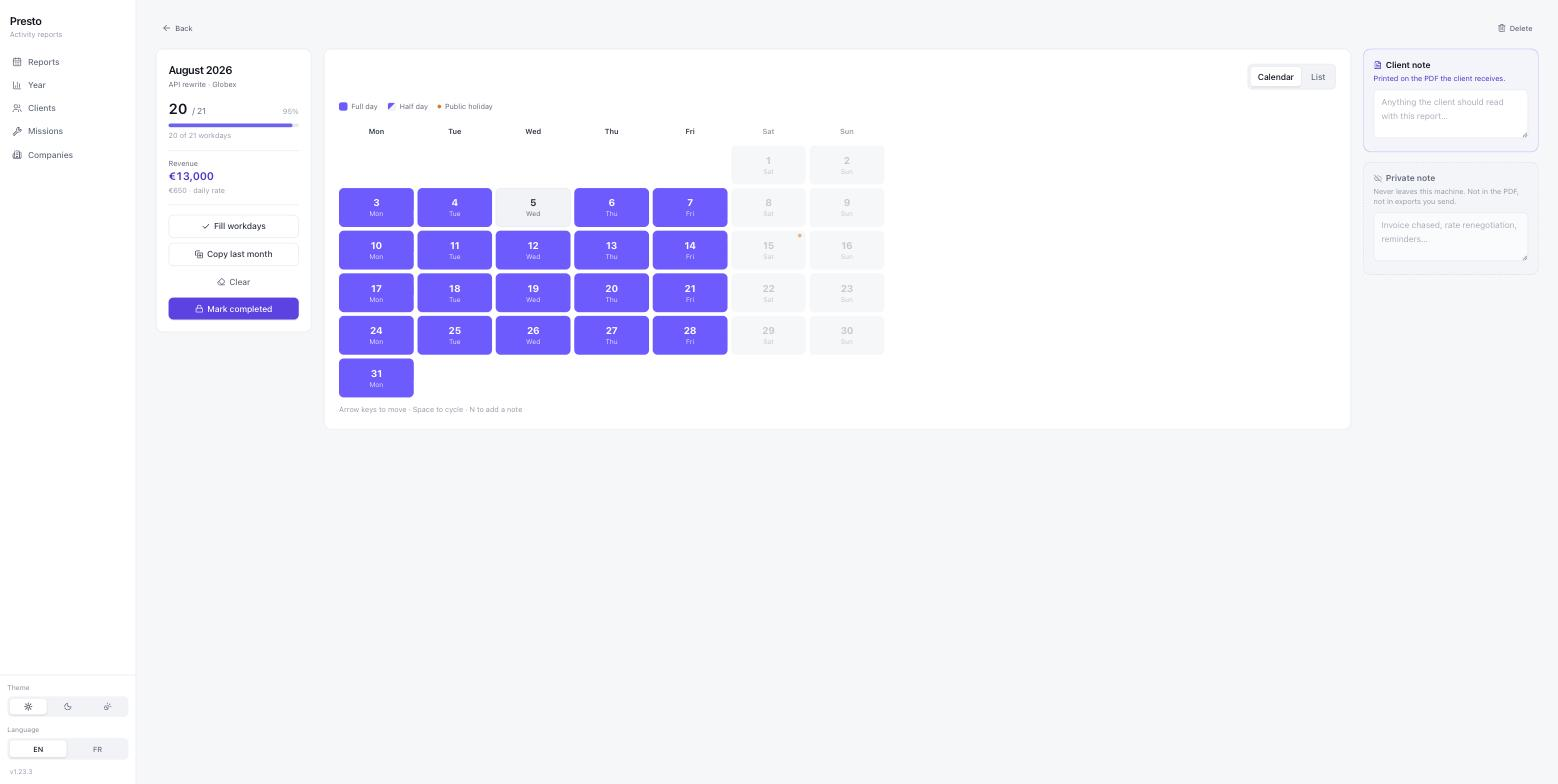
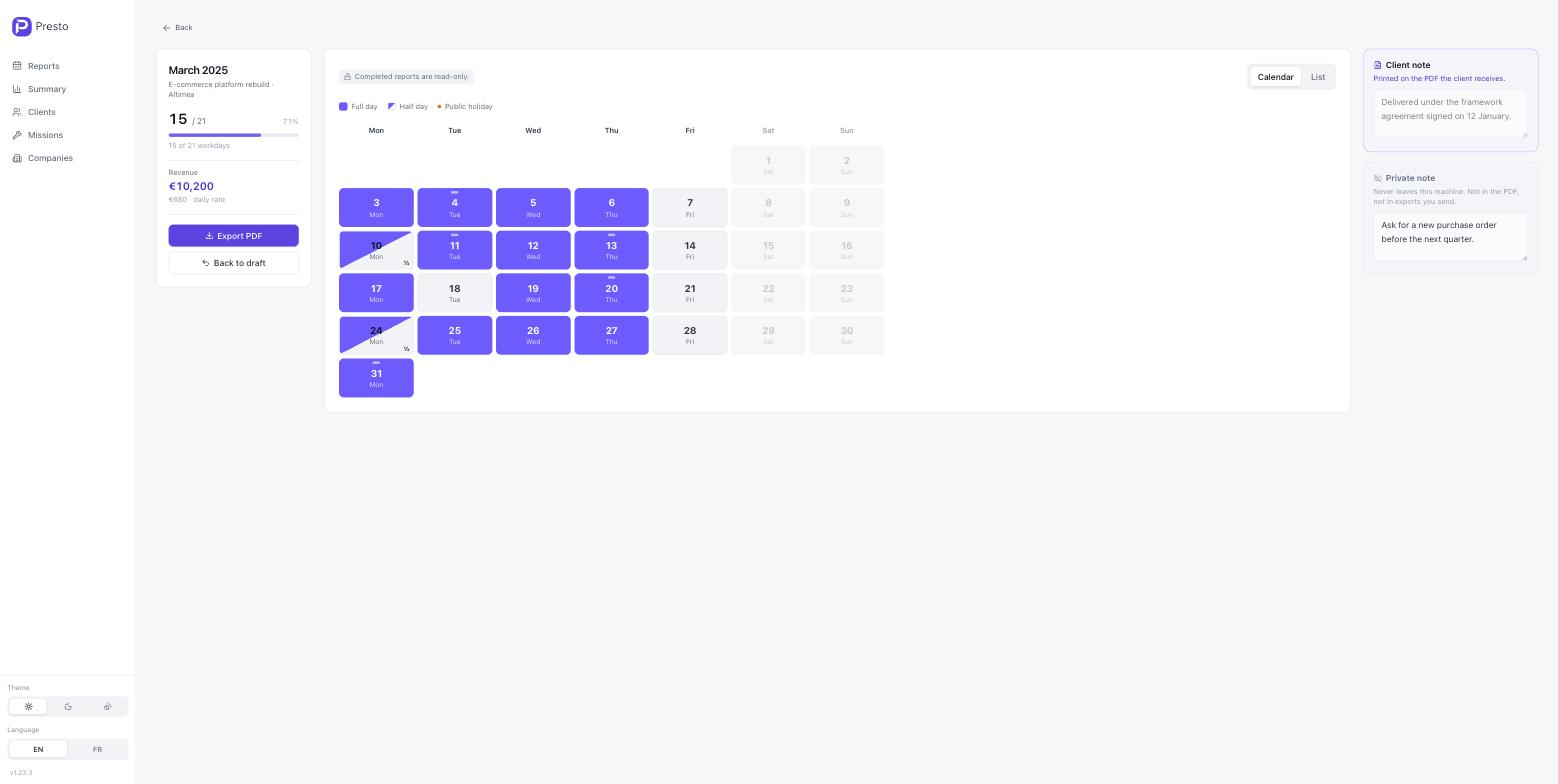
docs: rewrite the README around what the tool actually produces
Restructures it as a walkthrough — set up, fill in a month, send it,
review the year — rather than a feature list, and leads with the screen
someone will spend their time in.

Adds a render of an exported PDF. It is the product's actual output and
the thing a prospective user most wants to see before installing
anything; the README never showed it.

Screenshots are regenerated in English from the seed fixture, which is
now in English itself: it ships in a repository whose default language
is English, and half-French demo data read as an oversight. Only the
strings changed — the PRNG draws the same days, so the numbers are
identical.

States the absence of authentication up front and links SECURITY.md,
rather than leaving it as a line in a table.

diff --git a/scripts/seed.ts b/scripts/seed.ts
@@ -31,17 +31,18 @@ function rng(seed: number): () => number {
   };
 }
 
+// English: this fixture ships in a repository whose default language is English.
 const DAY_NOTES = [
   "Sprint planning",
-  "Revue de code",
-  "Atelier de cadrage",
-  "Comité de pilotage",
-  "Mise en production",
-  "Recette fonctionnelle",
-  "Reprise de données",
-  "Point d'avancement",
-  "Astreinte",
-  "Rédaction des specs",
+  "Code review",
+  "Scoping workshop",
+  "Steering committee",
+  "Production release",
+  "User acceptance testing",
+  "Data migration",
+  "Progress check-in",
+  "On-call",
+  "Writing specifications",
 ];
 
 interface Rhythm {
@@ -174,7 +175,7 @@ const LAST_YEAR = NOW.year - 1;
 const MISSIONS = [
   {
     key: "altimea",
-    name: "Refonte de la plateforme e-commerce",
+    name: "E-commerce platform rebuild",
     client: "altimea",
     company: "consulting",
     dailyRate: 680,
@@ -195,7 +196,7 @@ const MISSIONS = [
   },
   {
     key: "lauvray",
-    name: "Migration du SI RH",
+    name: "HR system migration",
     client: "lauvray",
     company: "consulting",
     dailyRate: 620,
@@ -209,7 +210,7 @@ const MISSIONS = [
   },
   {
     key: "helvetia",
-    name: "Plateforme data & gouvernance",
+    name: "Data platform and governance",
     client: "helvetia",
     company: "consulting",
     dailyRate: 950,
@@ -221,7 +222,7 @@ const MISSIONS = [
   },
   {
     key: "novaqua",
-    name: "Audit technique et accompagnement",
+    name: "Technical audit and advisory",
     client: "novaqua",
     company: "studio",
     dailyRate: 560,
@@ -237,16 +238,16 @@ const MISSIONS = [
 ];
 
 const CLIENT_NOTES = [
-  "Facturation au 1er du mois suivant, paiement à 30 jours.",
-  "Jours validés avec le chef de projet. Facture jointe séparément.",
-  "Prestation réalisée dans le cadre du contrat-cadre signé le 12/01.",
+  "Invoiced on the 1st of the following month, 30 days net.",
+  "Days agreed with the project lead. Invoice sent separately.",
+  "Delivered under the framework agreement signed on 12 January.",
   null,
 ];
 
 const PRIVATE_NOTES = [
-  "Relancé le 12, paiement reçu le 18.",
-  "Renégocier le TJM au prochain renouvellement.",
-  "Attention : bon de commande à redemander pour le trimestre suivant.",
+  "Chased on the 12th, paid on the 18th.",
+  "Renegotiate the rate at the next renewal.",
+  "Ask for a new purchase order before the next quarter.",
   null,
   null,
 ];

diff --git a/README.md b/README.md
@@ -1,36 +1,37 @@
 <div align="center">
-  <img src="public/favicon.svg" alt="" width="64" />
+  <img src="public/logo-vertical-light.svg#gh-dark-mode-only" alt="Presto" width="110" />
+  <img src="public/logo-vertical-dark.svg#gh-light-mode-only" alt="Presto" width="110" />
 
-  <h1>Presto</h1>
+  <h3>Monthly activity reports for freelancers and consultants</h3>
 
-  <p><strong>Monthly activity reports for freelancers and consultants.</strong><br/>
-  Track billable days on a calendar, hand your client a clean PDF.</p>
+  <p>Mark the days you worked on a calendar. Hand your client a clean PDF.<br/>
+  One person, one machine, one SQLite file.</p>
 
   <p>
-    <a href="https://github.com/tux86/presto/actions/workflows/ci.yml"><img src="https://img.shields.io/github/actions/workflow/status/tux86/presto/ci.yml?branch=main&style=flat-square&label=CI" alt="CI" /></a>
-    <a href="https://github.com/tux86/presto/releases"><img src="https://img.shields.io/github/v/release/tux86/presto?style=flat-square&color=blue" alt="Release" /></a>
-    <a href="LICENSE"><img src="https://img.shields.io/badge/License-MIT-green?style=flat-square" alt="MIT" /></a>
+    <a href="https://github.com/tux86/presto/actions/workflows/ci.yml"><img alt="CI" src="https://img.shields.io/github/actions/workflow/status/tux86/presto/ci.yml?branch=main&style=flat-square&label=CI"></a>
+    <a href="https://github.com/tux86/presto/releases"><img alt="Release" src="https://img.shields.io/github/v/release/tux86/presto?style=flat-square&color=4f46e5"></a>
+    <a href="https://github.com/tux86/presto/pkgs/container/presto"><img alt="Image" src="https://img.shields.io/badge/ghcr.io-presto-4f46e5?style=flat-square&logo=docker&logoColor=white"></a>
+    <a href="LICENSE"><img alt="MIT" src="https://img.shields.io/badge/License-MIT-059669?style=flat-square"></a>
   </p>
 </div>
 
 <p align="center">
-  <img src="docs/images/editor.jpg" alt="Filling in a month of billable days" width="100%" />
+  <img src="docs/images/editor.jpg" alt="A month of billable days, ready to export" width="100%">
 </p>
-
----
 
 ## What it is
 
-A *compte rendu d'activité* generator. You mark the days you worked on a calendar, and Presto turns
-the month into a PDF your client can accept, plus a yearly view of days and revenue.
+A *compte rendu d'activité* generator. Freelancers and consultants bill by the day; at the end of
+each month somebody has to produce the document that says which days those were. Presto is that
+document, plus the yearly view that tells you how the business is going.
 
-It is built for **one person on one machine**. There are no accounts, no login, no cloud, no
-telemetry. Your data is one SQLite file you can copy, move, and back up yourself.
+It is built for **one person on one machine**. No accounts, no login, no cloud, no telemetry. Your
+data is a single SQLite file you can copy, move and back up yourself.
 
 > [!IMPORTANT]
 > **Presto has no authentication.** Anyone who can reach the port can read and change everything.
-> Run it on `localhost`, or behind a reverse proxy, VPN, or Tailscale that handles access control.
-> Do not put it on a public port.
+> Run it on `localhost`, or behind a reverse proxy, VPN or Tailscale that handles access control.
+> Do not put it on a public port. See [SECURITY.md](SECURITY.md).
 
 ## Quick start
 
@@ -44,9 +45,10 @@ bun start
 Open <http://localhost:3001>. That is the whole setup — no database to provision, no `.env` to fill
 in. Your data lands in `./data/presto.db`.
 
-You need [Bun](https://bun.sh) 1.2 or newer. Nothing else.
+The only prerequisite is [Bun](https://bun.sh) 1.2 or newer.
 
-### Docker
+<details>
+<summary><b>Docker</b></summary>
 
 ```bash
 docker run -d --name presto \
@@ -62,58 +64,95 @@ curl -O https://raw.githubusercontent.com/tux86/presto/main/docker-compose.yml
 docker compose up -d
 ```
 
-One container, one volume. There is no database container, because the database is a file.
+One container, one volume. There is no database service, because the database is a file.
 
-## Using it
+</details>
 
-**Set up, once.** Rename the starter company under **Companies** to your legal entity — the name
-that appears on the PDF. Add a **client** (currency and holiday country live here), then a
-**mission** for the work you do for them, with its daily rate.
+<details>
+<summary><b>Try it with sample data</b></summary>
 
-**Every month.** Create a report for a mission and month. Fill it in:
+```bash
+bun run seed --reset
+```
 
-- Click a day to cycle it through **empty → half day → full day**
-- **Fill workdays** marks every weekday, skipping weekends and that client's public holidays
-- **Copy last month** reuses *which weekdays* you worked, re-applied to this month's calendar
-- Arrow keys move, <kbd>Space</kbd> cycles, <kbd>N</kbd> jumps to the day's note
+Two legal entities, four clients across two currencies and about two years of months. Deterministic,
+so you get the same data every time. Never runs on its own — Presto has no demo mode.
 
-**When it's done.** Mark the report **completed** — it becomes read-only — and export the PDF.
-Reverting to draft is possible but asks first, because your client may already have a copy.
+</details>
 
-Two notes per report, and the difference matters:
+## How it works
 
-| | Where it goes |
+**Set up once.** Rename the starter company under **Companies** to your legal entity — the name that
+appears on the PDF. Add a **client**, which carries its billing currency and its public-holiday
+country. Then a **mission** for the work you do for them, with its daily rate.
+
+**Fill in a month.** Create a report for a mission and a month, then:
+
+| | |
 |---|---|
-| **Client note** | Printed on the PDF the client receives |
-| **Private note** | Stays in your database. Never in the PDF, never in a client-facing export |
+| Click a day | cycles it through **empty → half day → full day** |
+| **Fill workdays** | marks every weekday, skipping weekends and that client's public holidays |
+| **Copy last month** | reuses *which weekdays* you worked, re-applied to this month's calendar |
+| <kbd>←</kbd> <kbd>→</kbd> <kbd>↑</kbd> <kbd>↓</kbd> | move · <kbd>Space</kbd> cycles · <kbd>N</kbd> jumps to the day's note |
+
+Public holidays are marked automatically for the client's country, and Presto asks before letting you
+bill one. Half days are drawn as a diagonal split, so the shape of a month is readable without
+reading any numbers.
 
 <p align="center">
-  <img src="docs/images/reports.jpg" alt="A year of reports grouped by client" width="100%" />
+  <img src="docs/images/reports.jpg" alt="A year of reports, grouped by client" width="100%">
 </p>
 
-**At year end.** The **Year** page shows days billed, revenue, average daily rate, and utilisation
-against the working days in the year, with a breakdown per client and per company. Export the whole
-year as CSV for your accountant, or the whole database as JSON.
+**Send it.** Mark the report **completed** — it becomes read-only — and export the PDF. Reverting to
+draft is possible, but Presto asks first, because your client may already have a copy.
+
+Every report has two notes, and the difference matters:
+
+|  | Where it goes |
+|---|---|
+| **Client note** | printed on the PDF the client receives |
+| **Private note** | stays in your database — never in the PDF, never in a client-facing export |
+
+## The PDF
+
+Generated server-side, one page per month, in English or French. It carries your legal entity and
+its business ID, the client's, the mission, every day of the month with its notes, public holidays
+by name, and the total.
 
 <p align="center">
-  <img src="docs/images/year.jpg" alt="Yearly summary with days, revenue and utilisation" width="100%" />
+  <img src="docs/images/pdf.png" alt="An exported activity report" width="620">
 </p>
 
-If you bill in more than one currency, amounts are shown **per currency** and never converted.
-Presto does not know today's exchange rate and will not pretend to.
+## The year
+
+Days billed, revenue, average daily rate, and utilisation against the working days in the year —
+broken down per client and per legal entity, filterable by either.
+
+A year still in progress is compared against **the same months** of the previous year, not against a
+full twelve: eight months of work is not a 40% collapse.
+
+If you bill in more than one currency, amounts are shown **per currency and never converted**. Presto
+does not know today's exchange rate and will not pretend to.
+
+<p align="center">
+  <img src="docs/images/summary.jpg" alt="Yearly summary with days, revenue and utilisation" width="100%">
+</p>
+
+Export the year as **CSV** for your accountant, or the whole database as **JSON** if you want a
+format you can read without SQLite.
 
 ## Configuration
 
-Everything is optional.
+Everything is optional. Presto runs with no configuration at all.
 
 | Variable | Default | What it does |
 |---|---|---|
 | `PORT` | `3001` (`8080` in Docker) | HTTP port |
-| `DATA_DIR` | `./data` (`/data` in Docker) | Where `presto.db` lives |
-| `APP_NAME` | `Presto` | Name shown in the sidebar |
+| `DATA_DIR` | `./data` (`/data` in Docker) | where `presto.db` lives |
+| `APP_NAME` | `Presto` | name shown in the sidebar and the browser tab |
 
-Theme (light / dark / auto) and language (English / French) are per-browser settings in the sidebar,
-not environment variables.
+Theme (light / dark / follow the system) and language (English / French) are per-browser settings in
+the sidebar, not environment variables.
 
 ## Backups
 
@@ -121,39 +160,28 @@ not environment variables.
 cp data/presto.db ~/backups/presto-$(date +%F).db
 ```
 
-That is a complete backup. To move to another machine, copy the file. The **Year** page also exports
-everything as JSON if you want a format you can read without SQLite.
+That is a complete backup. To move to another machine, copy the file.
 
 ## Coming from v1
 
-Presto v1 stored data in PostgreSQL and had optional multi-user accounts. v2 drops both. To bring
-your data across:
+Presto v1 stored data in PostgreSQL and had optional multi-user accounts. v2 drops both.
 
 1. Start Presto v1 and use **Profile → Export all data** to download the JSON
 2. `bun run import:v1 presto-v1-export.json`
 
 Add `--dry-run` first to see what it would write. The import refuses to run against a database that
-already has data.
-
-v1 remains available at the [`v1-final`](https://github.com/tux86/presto/tree/v1-final) tag.
+already has data. v1 remains available at the [`v1-final`](https://github.com/tux86/presto/tree/v1-final) tag.
 
 ## Development
 
 ```bash
 bun install
 bun run dev            # API on :3001, Vite with HMR on :5173
-bun test               # ~150 tests, no database or server needed
+bun test               # 156 tests, no database or server needed
 bun run typecheck
 bun run lint:fix
-bun run seed --reset   # fill the database with a plausible two-year history
+bun run seed --reset   # sample data to work against
 ```
-
-`bun run seed` is for trying Presto out and for working on it — two entities, four
-clients in two currencies, and a couple of years of months. It is deterministic, so the
-same command always produces the same data. It is never run automatically and is not in
-the Docker image; Presto has no demo mode.
-
-### How it fits together
 
 ```
 src/
@@ -165,15 +193,14 @@ src/
   i18n/    English and French, shared by the UI and the PDF
 ```
 
-One rule: **`core/` imports nothing from `db/`, `server/`, `pdf/`, or `ui/`.** That is what lets the
-logic that can actually get your invoice wrong be tested without a database, and it is where almost
+One rule: **`core/` imports nothing from `db/`, `server/`, `pdf/` or `ui/`.** That is what lets the
+logic which can actually get an invoice wrong be tested without a database, and it is where nearly
 all of the tests point.
 
 Storage is raw SQL against `bun:sqlite`. Migrations are an ordered array of SQL strings in
 `src/db/schema.ts`, tracked by `PRAGMA user_version` — append one, never edit one that has shipped.
 
-Commits follow [Conventional Commits](https://www.conventionalcommits.org/); releases are cut
-automatically from `main`.
+See [CONTRIBUTING.md](CONTRIBUTING.md) before opening a pull request.
 
 ## Stack
 
@@ -182,4 +209,4 @@ date-holidays · Zod · Biome · TypeScript
 
 ## License
 
-[MIT](LICENSE)
+[MIT](LICENSE) © [tux86](https://github.com/tux86)
